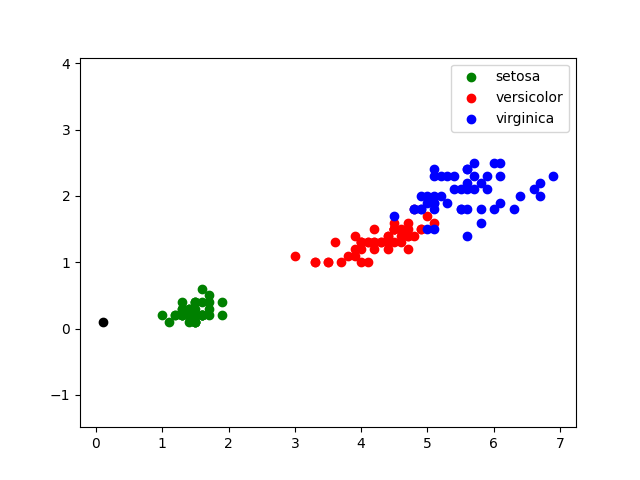
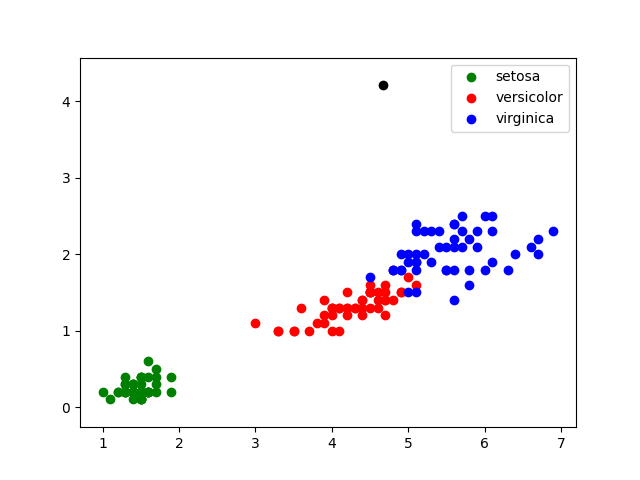
new version

diff --git a/interface.py b/interface.py
@@ -7,26 +7,34 @@ from sklearn.neighbors import KNeighborsClassifier
 from functions import findk,findPrediction
 
 
-#traitement CSV
-iris=pandas.read_csv("/Users/david/Desktop/iris_KNN/iris.csv")
-x=iris.loc[:,"petal_length"]
-y=iris.loc[:,"petal_width"]
-lab=iris.loc[:,"species"]
-#fin traitement CSV
+# Traitement CSV
+iris=pandas.read_csv("/Users/david/Desktop/iris_KNN/iris.csv")                                                                                                  
+x=iris.loc[:,"petal_length"]                                                                                                                                    
+y=iris.loc[:,"petal_width"]                                                                                                                                     
+species=iris.loc[:,"species"]                                                                                                                                       
+# Fin traitement CSV
 
-
+# Affichage barre latérale
+st.sidebar.markdown("<h1 style='text-align: center; color: red;'>IRIS MENU</h1>", unsafe_allow_html=True)
 st.sidebar.title('Déterminer l\'espèce de votre iris : ')
 longueur = st.sidebar.slider('Entrez la longueur en cm', 0.0, 10.0, 0.1 )
 largeur= st.sidebar.slider('Entrez la largueur en cm', 0.0, 10.0, 0.1  )
+# Fin affichage barre latérale
 
+# Appel fonction de l'algorithme des K plus proches voisins
+prediction= findPrediction(x,y,species,longueur,largeur)
+# Fin appel
 
+# Affichage page principale
+st.markdown("<h1 style='text-align: center; color: red;'>IRIS INTERFACE</h1>", unsafe_allow_html=True)
 """
-En 1936, Edgar Anderson a collecté des données sur 3 espèces d\'iris : iris setosa, iris virginica et iris versicolor.
+En 1936, Edgar Anderson a collecté des données sur 3 espèces d\'iris : l\'iris setosa, l\'iris virginica et l\'iris versicolor.
 """
 image = Image.open('/Users/david/Desktop/iris_KNN/iris_setosa.jpeg')
 image2 = Image.open('/Users/david/Desktop/iris_KNN/iris_versicolor.jpeg')
 image3 = Image.open('/Users/david/Desktop/iris_KNN/iris_virginica.jpeg')
 st.image([image,image2,image3],caption=["SETOSA","VERSICOLOR","VIRGINICA"])
+
 """
 Pour chaque iris étudié, Anderson a mesuré (en cm) :
 * la largeur des sépales
@@ -36,35 +44,42 @@ Pour chaque iris étudié, Anderson a mesuré (en cm) :
 """
 st.write('Par souci de simplification, nous nous intéresserons uniquement à la largeur et à la longueur des pétales.')
 
-#algo knn
-prediction= findPrediction(x,y,lab,longueur,largeur)
-#fin algo knn
 
-#graphique
+# Affichage graphique des K plus proches voisins
 plt.axis('equal')
-plt.scatter(x[lab == 0], y[lab == 0], color='g', label='setosa')
-plt.scatter(x[lab == 1], y[lab == 1], color='r', label='versicolor')
-plt.scatter(x[lab == 2], y[lab == 2], color='b', label='virginica')
+plt.scatter(x[species == 0], y[species == 0], color='g', label='setosa')
+plt.scatter(x[species == 1], y[species == 1], color='r', label='versicolor')
+plt.scatter(x[species == 2], y[species == 2], color='b', label='virginica')
 plt.scatter(longueur, largeur, color='k')
 plt.legend()
 plt.savefig('saved_figure.png')
-st.image('saved_figure.png')
-#fin graphique
+#fin affichage graphique des K plus proches voisins
 
 
-#Affichage résultats
+# Affichage résultats
 st.write("Votre iris a des pétales de longueur de ", longueur, ' cm et de largeur de ',largeur,' cm.')
-st.write("D'après l'algorithme des k plus proches voisins, où ", findk(list(zip(x,y)),lab)," est le K optimal, votre iris est : ")
+image = Image.open('saved_figure.png')
+col1, col2, col3 = st.columns([0.2, 1, 0.2])
+col2.image(image, use_column_width=True)
+st.write("D'après l'algorithme des k plus proches voisins, où ", findk(list(zip(x,y)),species)," est le K optimal, votre iris est de l'espèce : ")
 
 if prediction[0]==0:
   image = Image.open('/Users/david/Desktop/iris_KNN/iris_setosa.jpeg')
-  st.image(image, caption='SETOSA')
-if prediction[0]==1:
+  col1, col2, col3 = st.columns([0.2, 0.4, 0.2])
+  col2.image(image, use_column_width=True, caption='SETOSA')
+elif prediction[0]==1:
   image = Image.open('/Users/david/Desktop/iris_KNN/iris_versicolor.jpeg')
-  st.image(image, caption='VERSICOLOR')
-if prediction[0]==2:
+  image = Image.open('/Users/david/Desktop/iris_KNN/iris_versicolor.jpeg')
+  col1, col2, col3 = st.columns([0.2, 0.4, 0.2])
+  col2.image(image, use_column_width=True, caption='VERSICOLOR')
+else:
   image = Image.open('/Users/david/Desktop/iris_KNN/iris_virginica.jpeg')
-  st.image(image, caption='VIRGINICA')
+  col1, col2, col3 = st.columns([0.2, 0.4, 0.2])
+  col2.image(image, use_column_width=True, caption='VIRGINICA')
+# Fin affichage résultats
+
+# Fin affichage page principale
+
 
 
 

diff --git a/functions.py b/functions.py
@@ -1,23 +1,23 @@
-from ctypes import alignment
-import streamlit as st
-from PIL import Image
-import pandas
-import matplotlib.pyplot as plt
+from os import supports_effective_ids
 from sklearn.neighbors import KNeighborsClassifier
 
-def findk (d,lab):
+# Fonction qui permet de trouver le K optimal
+def findk (values,species):
   klist=[]
+  # tester K alant de 1 à 15
   for i in range (1,15):
     model = KNeighborsClassifier(n_neighbors=i)
-    model.fit(d,lab)
-    error = 1 - model.score(d, lab)
+    model.fit(values,species)
+    error = 1 - model.score(values,species)
     klist.append(error)
   min1=min(klist)
   k=klist.index(min1)+1
   return k
 
-def findPrediction(x,y,lab,longueur,largeur):
-  d=list(zip(x,y))
-  model = KNeighborsClassifier(n_neighbors=findk(d,lab))
-  model.fit(d,lab)
+# Fonction qui permet de définir d'après l'algorithme des k plus proches voisins 
+# l'espèce de l'iris demandé selon sa longueur et sa largeur de taille de pétale
+def findPrediction(x,y,species,longueur,largeur):
+  values=list(zip(x,y))
+  model = KNeighborsClassifier(n_neighbors=findk(values,species))
+  model.fit(values,species)
   return model.predict([[longueur,largeur]])
